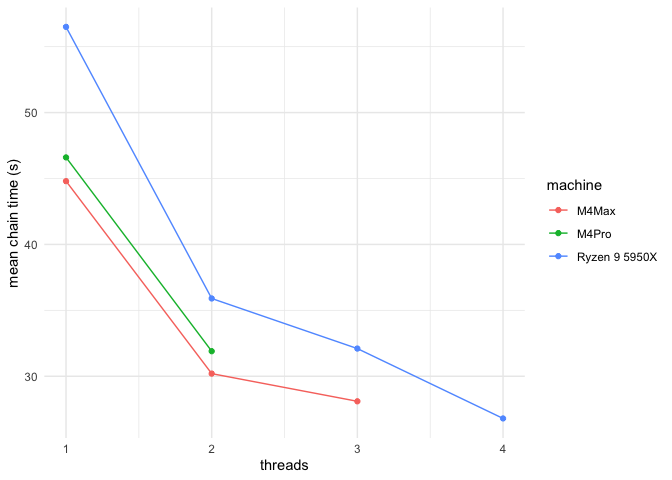
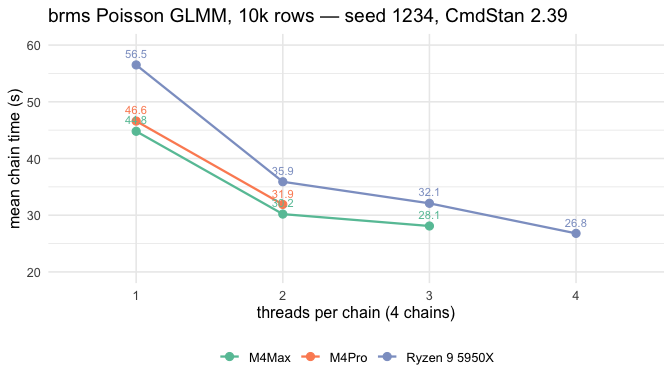
Figure update

diff --git a/README.md b/README.md
@@ -1,6 +1,8 @@
 
 <!-- README.md is generated from README.Rmd. Please edit that file -->
 
+## The cmdstan/brms/cpu benchmark
+
 ## Results so far
 
 | machine       | threads=1 | threads=2 | threads=3 | threads=4 |
